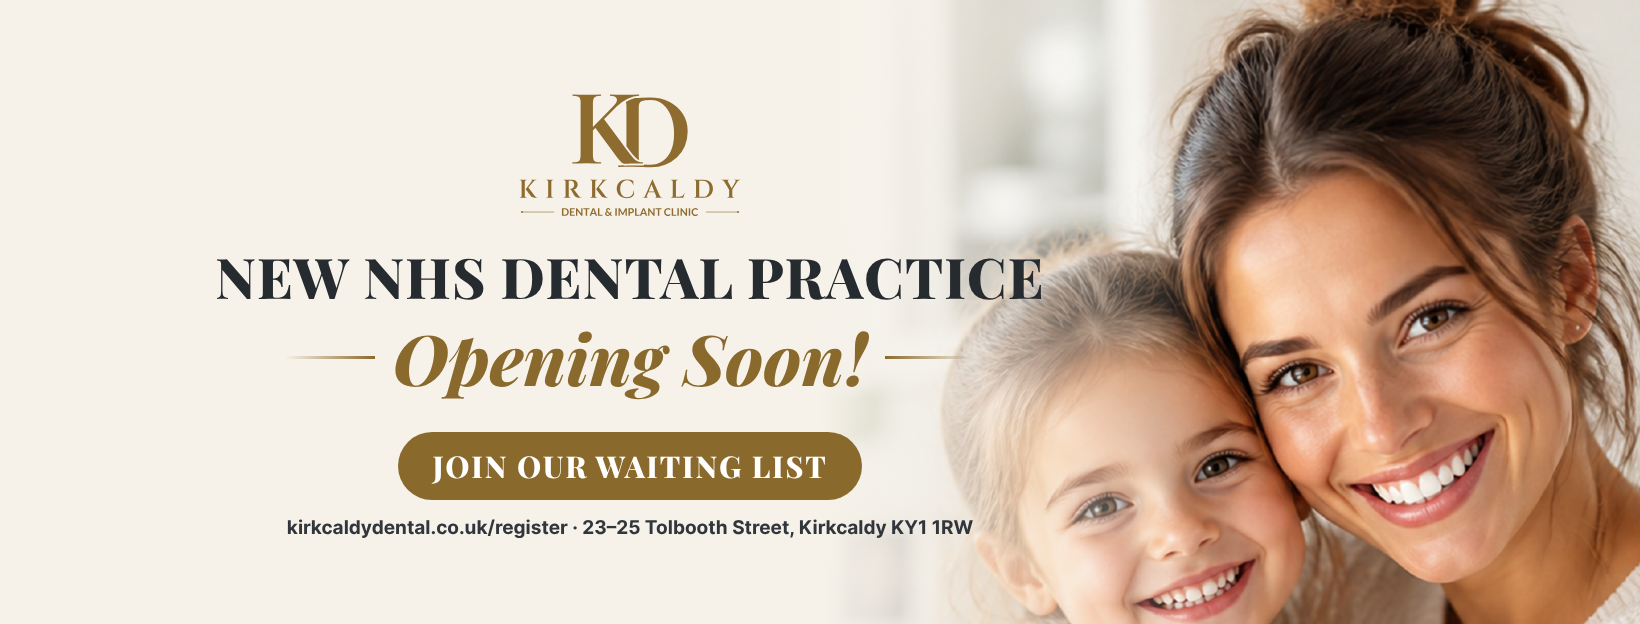
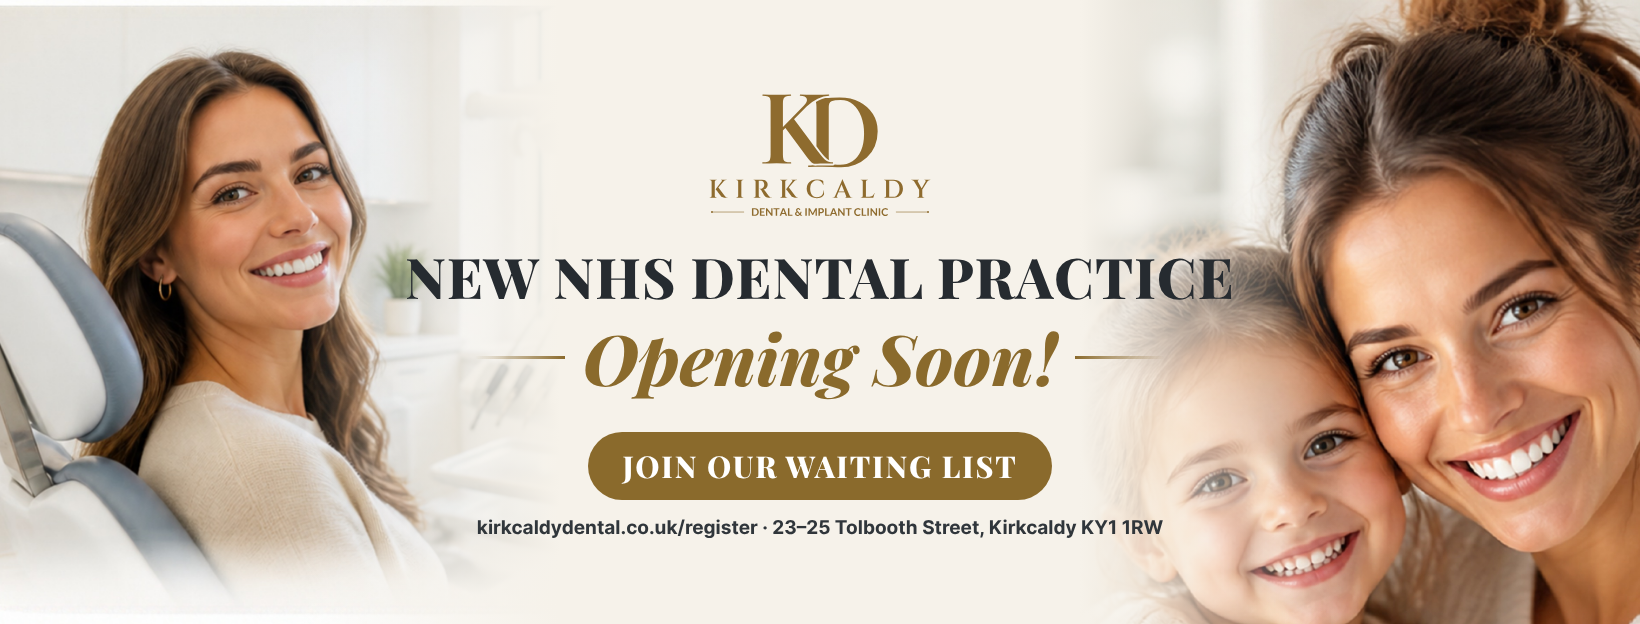
Social: cover balanced with photos both sides (centre text = mobile-safe)
Claude-Session: https://claude.ai/code/session_013umgPt6TGNXXMN4VEpExxU

diff --git a/ads/source/cover.html b/ads/source/cover.html
@@ -4,9 +4,9 @@
 @font-face{font-family:"Playfair";font-weight:800;src:url(playfair-800.woff2) format("woff2");}
 @font-face{font-family:"PlayfairI";font-weight:800;font-style:italic;src:url(playfair-800-italic.woff2) format("woff2");}
 html,body{margin:0}body{width:1640px;height:624px;position:relative;overflow:hidden;background:#F6F2EA;font-family:InterS}
-.photo{position:absolute;right:0;top:0;width:820px;height:624px;background:url(photo-family.jpg) 60% 30%/cover}
-.fade{position:absolute;right:420px;top:0;width:400px;height:624px;background:linear-gradient(90deg,#F6F2EA,rgba(246,242,234,0))}
-.txt{position:absolute;left:220px;top:0;width:820px;height:624px;display:flex;flex-direction:column;justify-content:center;align-items:center;text-align:center}
+.photo{position:absolute;right:0;top:0;width:560px;height:624px;background:url(photo-family.jpg) 62% 30%/cover}.photoL{position:absolute;left:0;top:0;width:560px;height:624px;background:url(photo-woman.jpg) 30% 25%/cover}
+.fade{position:absolute;right:300px;top:0;width:260px;height:624px;background:linear-gradient(90deg,#F6F2EA,rgba(246,242,234,0))}.fadeL{position:absolute;left:300px;top:0;width:260px;height:624px;background:linear-gradient(270deg,#F6F2EA,rgba(246,242,234,0))}
+.txt{position:absolute;left:410px;top:0;width:820px;height:624px;display:flex;flex-direction:column;justify-content:center;align-items:center;text-align:center}
 .logo{width:250px;margin-bottom:22px}
 .h1{font-family:Playfair;font-weight:800;font-size:56px;color:#262B30;letter-spacing:.02em;line-height:1.05;white-space:nowrap}
 .h2{font-family:PlayfairI;font-style:italic;font-size:70px;color:#8A6A2C;margin-top:4px;display:flex;align-items:center;gap:18px}
@@ -15,7 +15,7 @@ html,body{margin:0}body{width:1640px;height:624px;position:relative;overflow:hid
 .strip{margin-top:28px;background:#8A6A2C;color:#fff;padding:14px 34px;border-radius:999px;font-family:Playfair;font-weight:800;font-size:30px;letter-spacing:.06em}
 .sub{margin-top:16px;font-weight:700;font-size:19px;color:#30363B;white-space:nowrap}
 </style></head><body>
-<div class="photo"></div><div class="fade"></div>
+<div class="photoL"></div><div class="fadeL"></div><div class="photo"></div><div class="fade"></div>
 <div class="txt"><img class="logo" src="logo.svg">
 <div class="h1">NEW NHS DENTAL PRACTICE</div><div class="h2">Opening Soon!</div>
 <div class="strip">JOIN OUR WAITING LIST</div>
